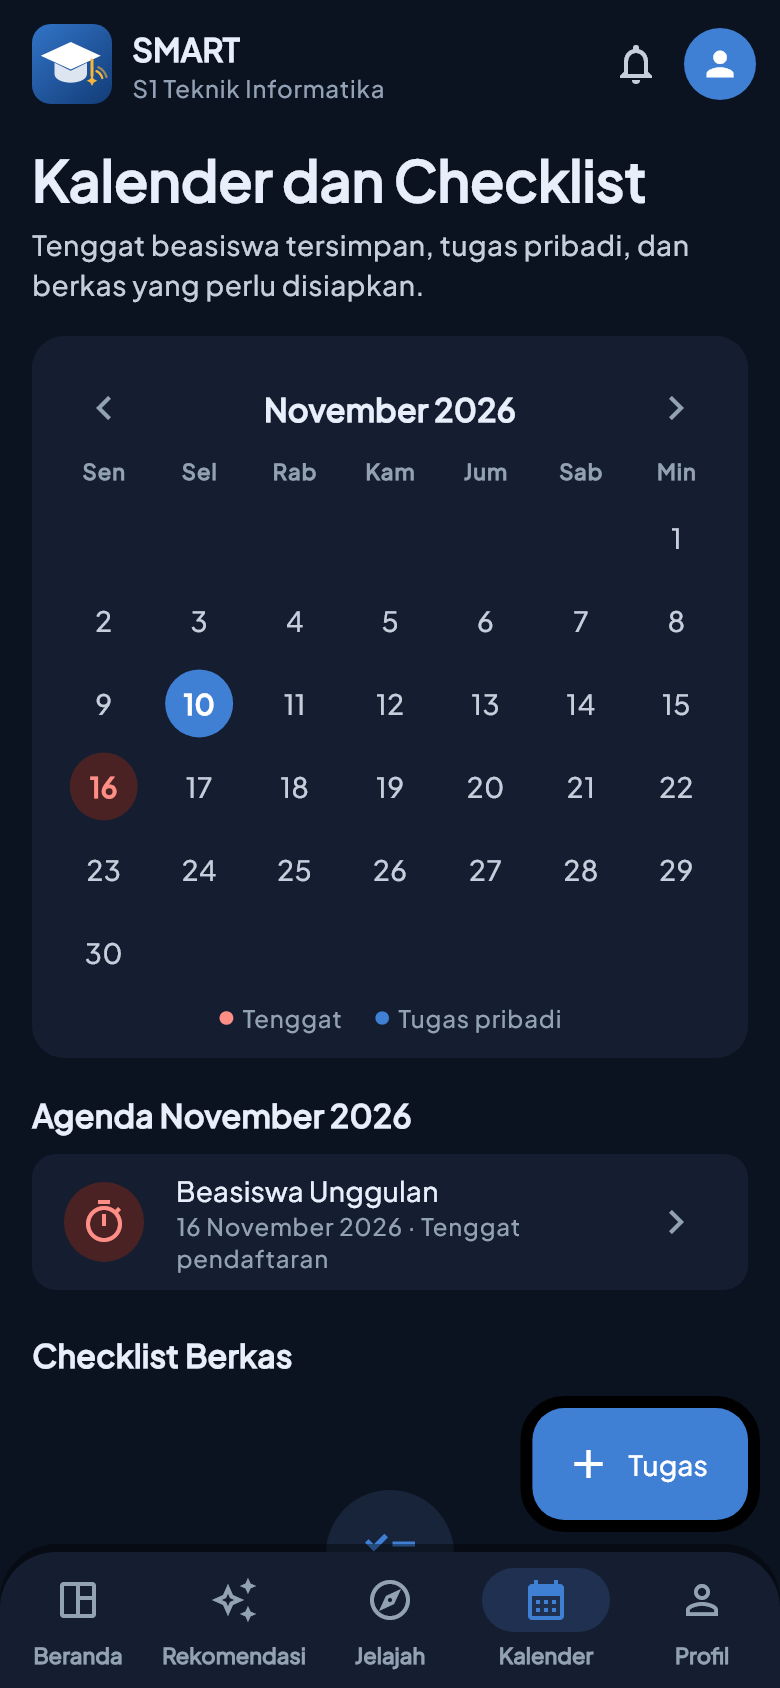
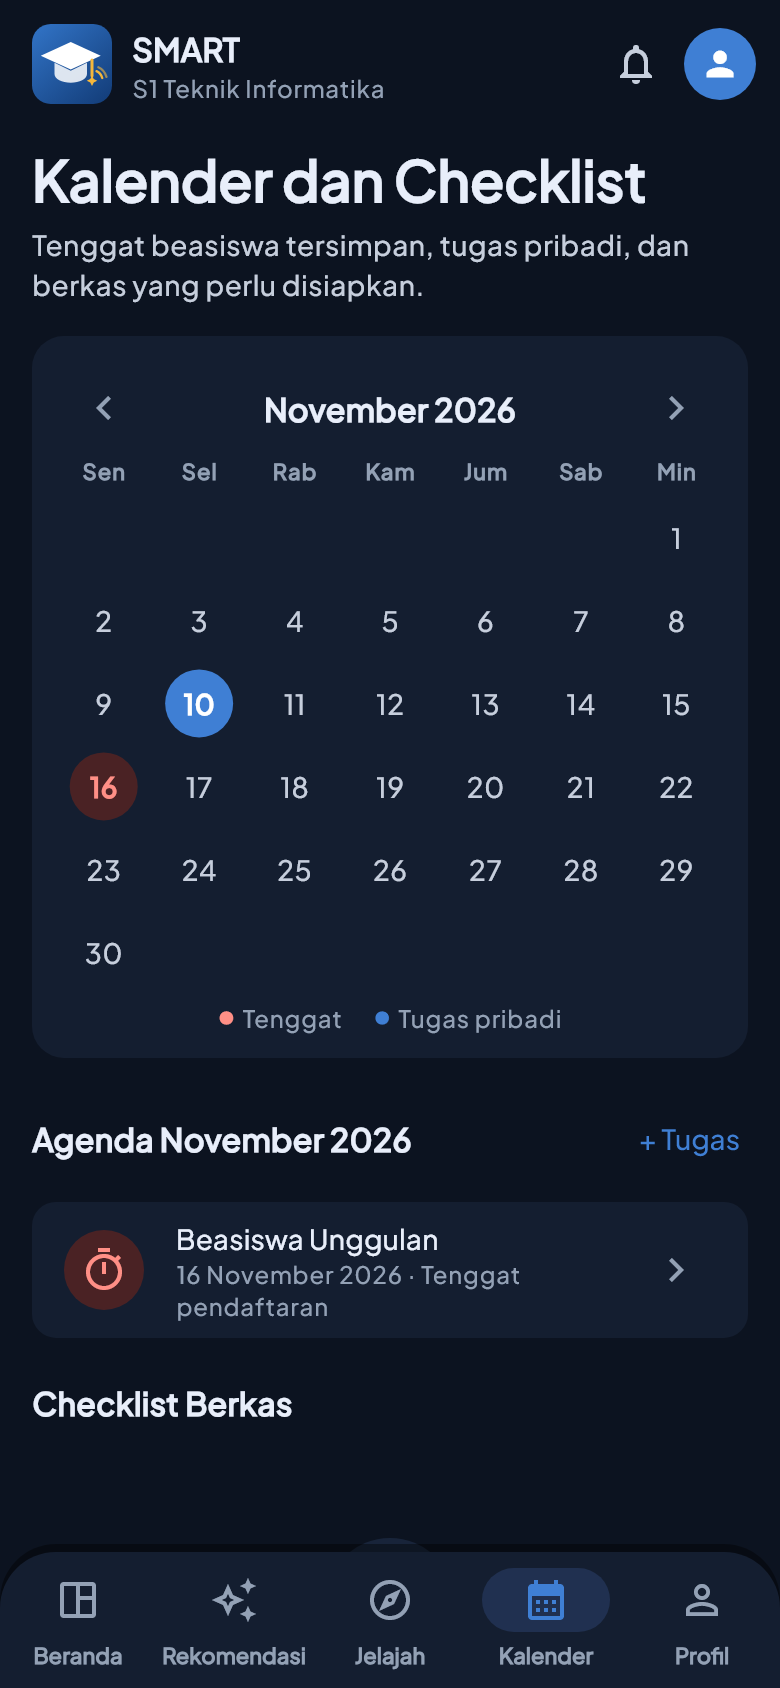
fix(mobile): label navigasi tidak turun baris, tombol Tugas Kalender tidak menutupi teks, judul kartu 3 baris, hint cari

diff --git a/apps/mobile/lib/core/router.dart b/apps/mobile/lib/core/router.dart
@@ -132,37 +132,40 @@ class _Cangkang extends StatelessWidget {
         ),
         child: ClipRRect(
           borderRadius: const BorderRadius.vertical(top: Radius.circular(28)),
-          child: NavigationBar(
-            selectedIndex: shell.currentIndex,
-            onDestinationSelected: (i) =>
-                shell.goBranch(i, initialLocation: i == shell.currentIndex),
-            destinations: const [
-              NavigationDestination(
-                icon: Icon(Icons.space_dashboard_outlined),
-                selectedIcon: Icon(Icons.space_dashboard_rounded),
-                label: 'Beranda',
-              ),
-              NavigationDestination(
-                icon: Icon(Icons.auto_awesome_outlined),
-                selectedIcon: Icon(Icons.auto_awesome),
-                label: 'Rekomendasi',
-              ),
-              NavigationDestination(
-                icon: Icon(Icons.explore_outlined),
-                selectedIcon: Icon(Icons.explore),
-                label: 'Jelajah',
-              ),
-              NavigationDestination(
-                icon: Icon(Icons.calendar_month_outlined),
-                selectedIcon: Icon(Icons.calendar_month),
-                label: 'Kalender',
-              ),
-              NavigationDestination(
-                icon: Icon(Icons.person_outline),
-                selectedIcon: Icon(Icons.person),
-                label: 'Profil',
-              ),
-            ],
+          child: MediaQuery.withClampedTextScaling(
+            maxScaleFactor: 1.0,
+            child: NavigationBar(
+              selectedIndex: shell.currentIndex,
+              onDestinationSelected: (i) =>
+                  shell.goBranch(i, initialLocation: i == shell.currentIndex),
+              destinations: const [
+                NavigationDestination(
+                  icon: Icon(Icons.space_dashboard_outlined),
+                  selectedIcon: Icon(Icons.space_dashboard_rounded),
+                  label: 'Beranda',
+                ),
+                NavigationDestination(
+                  icon: Icon(Icons.auto_awesome_outlined),
+                  selectedIcon: Icon(Icons.auto_awesome),
+                  label: 'Rekomendasi',
+                ),
+                NavigationDestination(
+                  icon: Icon(Icons.explore_outlined),
+                  selectedIcon: Icon(Icons.explore),
+                  label: 'Jelajah',
+                ),
+                NavigationDestination(
+                  icon: Icon(Icons.calendar_month_outlined),
+                  selectedIcon: Icon(Icons.calendar_month),
+                  label: 'Kalender',
+                ),
+                NavigationDestination(
+                  icon: Icon(Icons.person_outline),
+                  selectedIcon: Icon(Icons.person),
+                  label: 'Profil',
+                ),
+              ],
+            ),
           ),
         ),
       ),

diff --git a/apps/mobile/lib/features/kalender/presentation/kalender_page.dart b/apps/mobile/lib/features/kalender/presentation/kalender_page.dart
@@ -110,13 +110,6 @@ class _KalenderPageState extends ConsumerState<KalenderPage> {
 
     return Scaffold(
       appBar: const SmartAppBar(),
-      floatingActionButton: FloatingActionButton.extended(
-        onPressed: _tambahTugas,
-        backgroundColor: Warna.primary,
-        foregroundColor: Warna.putih,
-        icon: const Icon(Icons.add),
-        label: const Text('Tugas'),
-      ),
       body: RefreshIndicator(
         onRefresh: () async {
           ref.invalidate(kalenderProvider);
@@ -164,6 +157,8 @@ class _KalenderPageState extends ConsumerState<KalenderPage> {
                     const SizedBox(height: 16),
                     JudulBagian(
                       'Agenda ${namaBulan(_bulan.month)} ${_bulan.year}',
+                      aksi: '+ Tugas',
+                      onAksi: _tambahTugas,
                     ),
                     if (bulanIni.isEmpty)
                       const Padding(

diff --git a/apps/mobile/lib/core/widgets/kartu_beasiswa.dart b/apps/mobile/lib/core/widgets/kartu_beasiswa.dart
@@ -88,7 +88,12 @@ class KartuBeasiswa extends StatelessWidget {
                               style: t.labelSmall,
                             ),
                           const SizedBox(height: 4),
-                          Text(beasiswa.nama, style: t.titleMedium),
+                          Text(
+                            beasiswa.nama,
+                            style: t.titleMedium,
+                            maxLines: 3,
+                            overflow: TextOverflow.ellipsis,
+                          ),
                         ],
                       ),
                     ),

diff --git a/apps/mobile/lib/features/beasiswa/presentation/jelajah_page.dart b/apps/mobile/lib/features/beasiswa/presentation/jelajah_page.dart
@@ -66,7 +66,7 @@ class _JelajahPageState extends ConsumerState<JelajahPage> {
               onChanged: _onCari,
               textInputAction: TextInputAction.search,
               decoration: const InputDecoration(
-                hintText: 'Cari nama beasiswa atau penyelenggara',
+                hintText: 'Cari beasiswa',
                 prefixIcon: Icon(Icons.search),
               ),
             ),

diff --git a/apps/mobile/release-notes/0008-1.2.3.md b/apps/mobile/release-notes/0008-1.2.3.md
@@ -1,0 +1,15 @@
+---
+version: 1.2.3
+build: 8
+date: 2026-11-10
+type: patch
+mandatory: false
+blocks: []
+---
+Perbaikan tampilan yang ditemukan di ponsel.
+
+Perbaikan
+- Tulisan menu "Rekomendasi" tidak lagi terpotong atau turun baris di ponsel dengan huruf besar.
+- Tombol tambah tugas di Kalender tidak lagi menutupi teks agenda, dipindah ke judul Agenda.
+- Judul beasiswa yang sangat panjang dibatasi tiga baris di kartu.
+- Kolom pencarian Jelajah tidak lagi terpotong.
